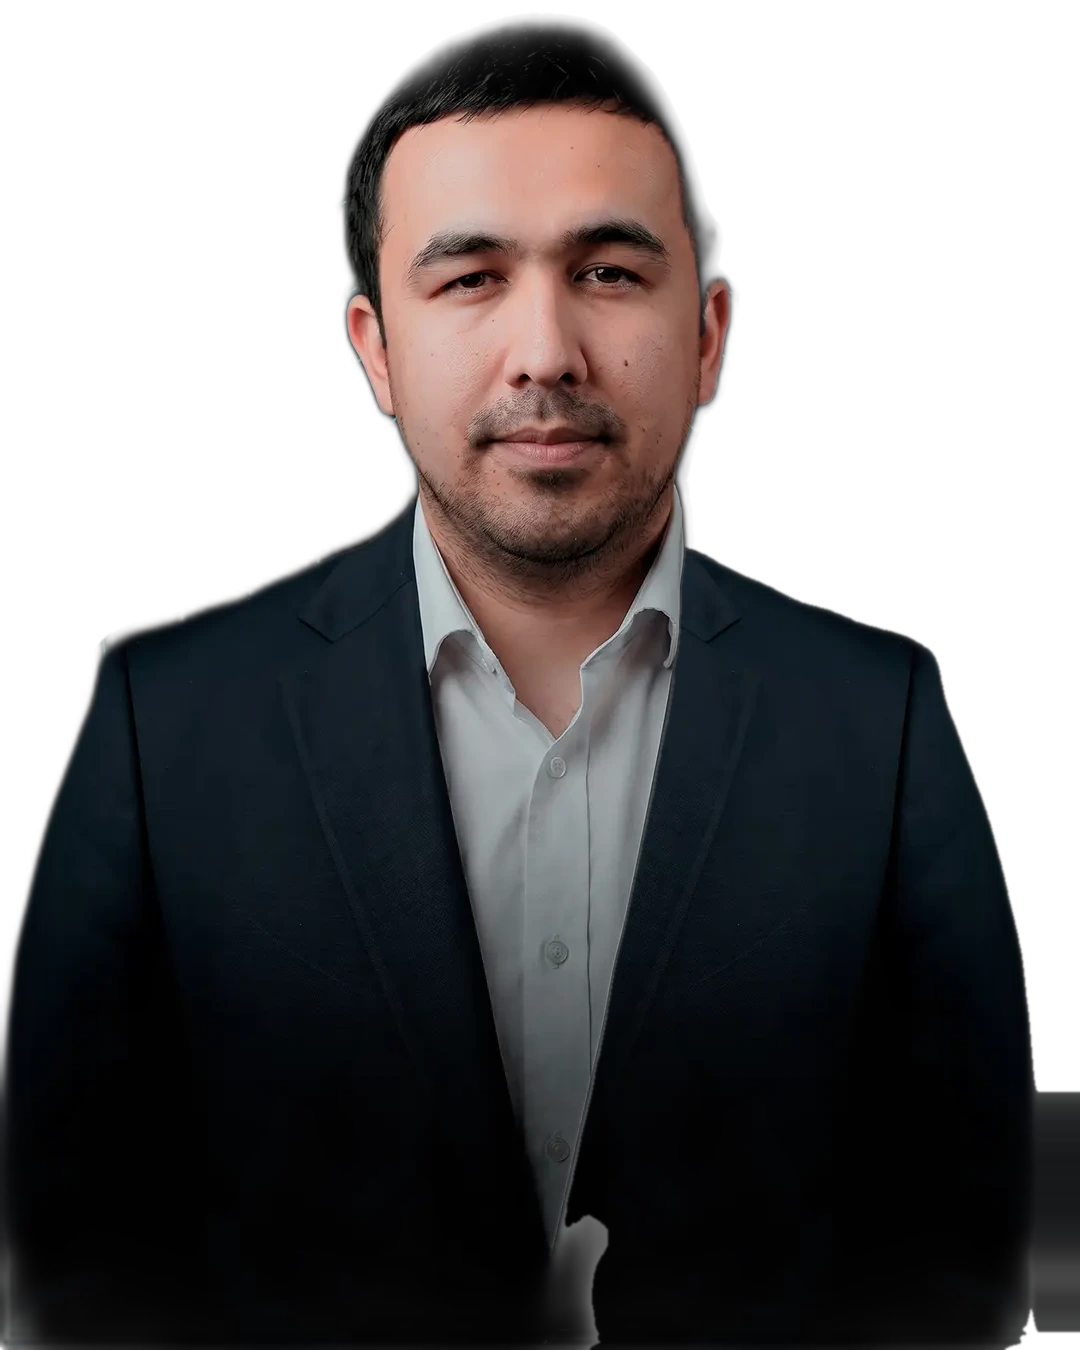
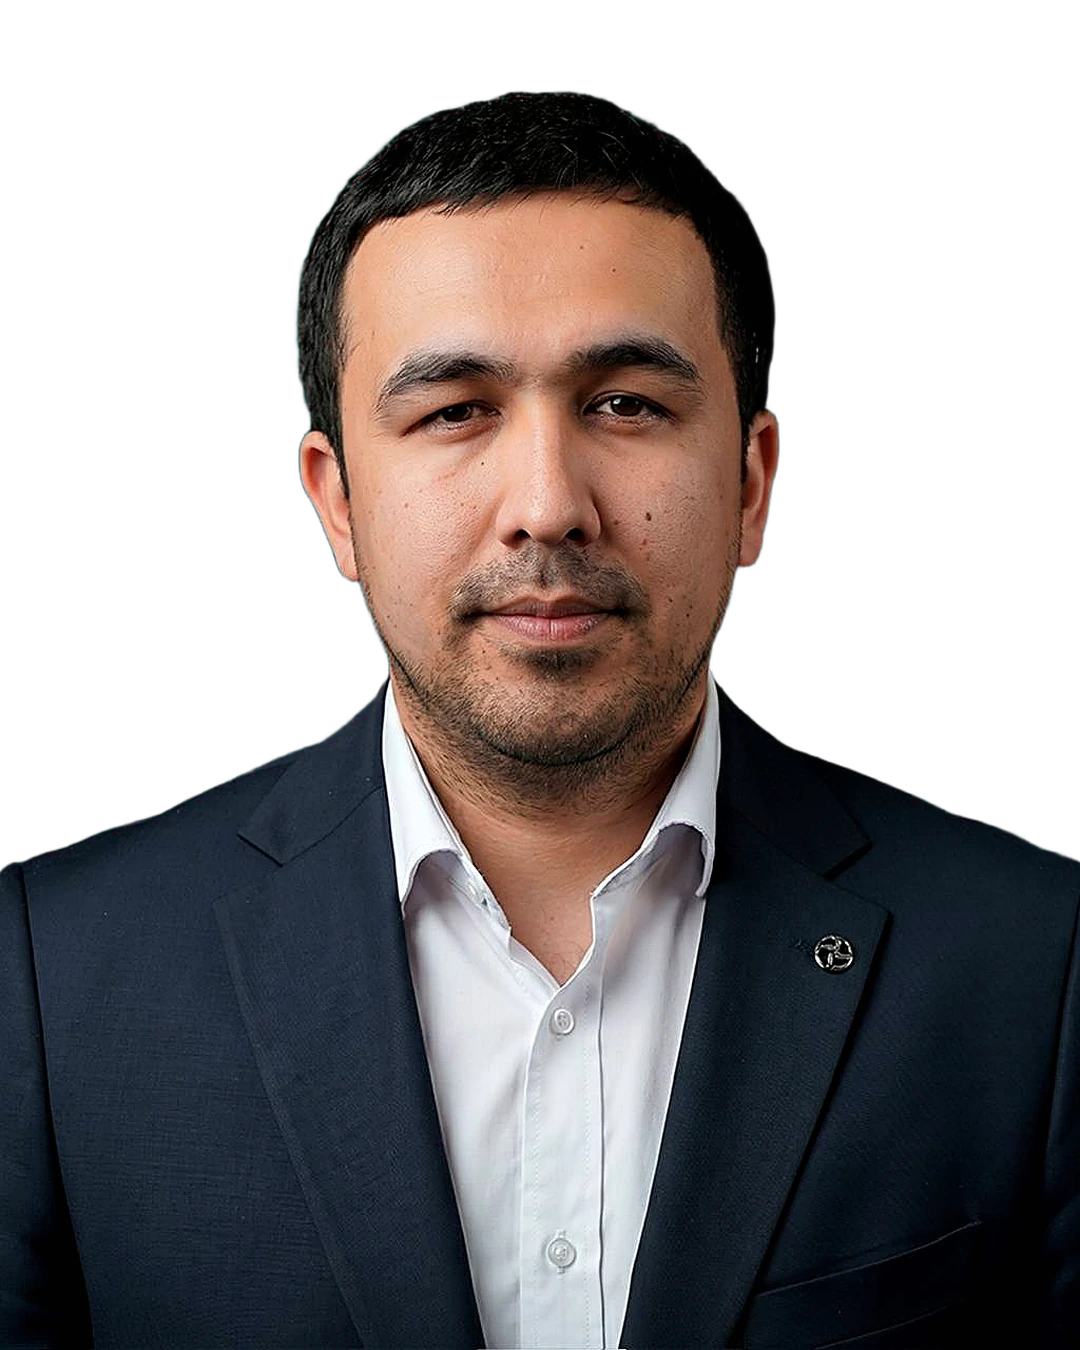
Spiker rasmini yangilash: fon o'chirildi, tiniqlik oshirildi
Claude-Session: https://claude.ai/code/session_01RwnHbGerkX5Dj1e7CDK4SH

diff --git a/index.html b/index.html
@@ -242,7 +242,7 @@
   <p class="lede">Sun'iy intellektning biznesingizga foydasi, uni integratsiya qilish va imkoniyatlaridan samarali foydalanishni bilib oling.</p>
 
   <div class="hero-photo">
-    <img src="img/spiker.webp?v=3" alt="Abbos Iskandarov" width="1080" height="1350" loading="eager">
+    <img src="img/spiker.webp?v=4" alt="Abbos Iskandarov" width="1080" height="1350" loading="eager">
   </div>
   <div class="spiker-tag">
     <div class="name">Abbos Iskandarov</div>

diff --git a/v2/index.html b/v2/index.html
@@ -271,7 +271,7 @@
     <div class="hero-visual">
       <div class="ring"></div>
       <canvas id="net3d"></canvas>
-      <div class="photo"><img src="img/spiker.webp" alt="Abbos Iskandarov"></div>
+      <div class="photo"><img src="img/spiker.webp?v=2" alt="Abbos Iskandarov"></div>
     </div>
     <div class="spiker-tag">
       <div class="name">Abbos Iskandarov</div>
